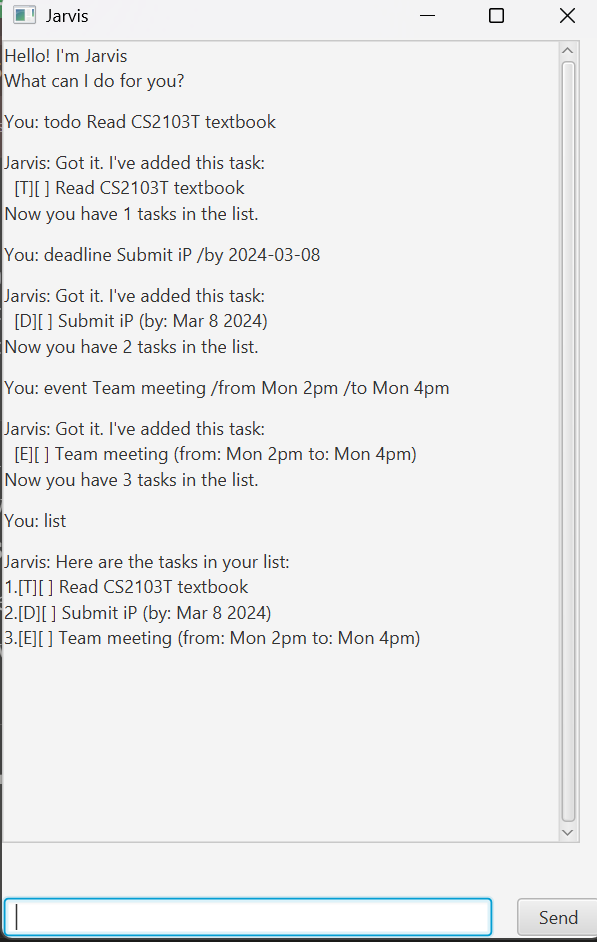
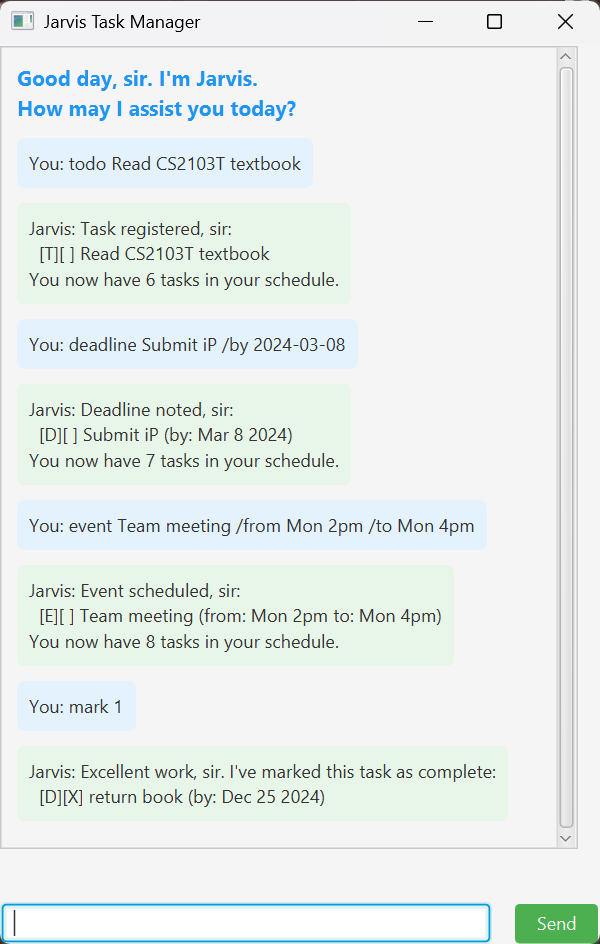
Update UI screenshot and user guide with styled interface
Updated documentation to reflect:
- Color-coded message display
- Styled send button
- Professional Jarvis personality
- Current GUI appearance with improved styling

diff --git a/docs/README.md b/docs/README.md
@@ -2,7 +2,7 @@
 
 ![Jarvis UI](Ui.png)
 
-Jarvis is a personal task management assistant that helps you keep track of your todos, deadlines, and events through an intuitive graphical interface.
+Jarvis is a professional task management assistant with a polished graphical interface featuring color-coded messages and intuitive controls.
 
 ## Quick Start
 
